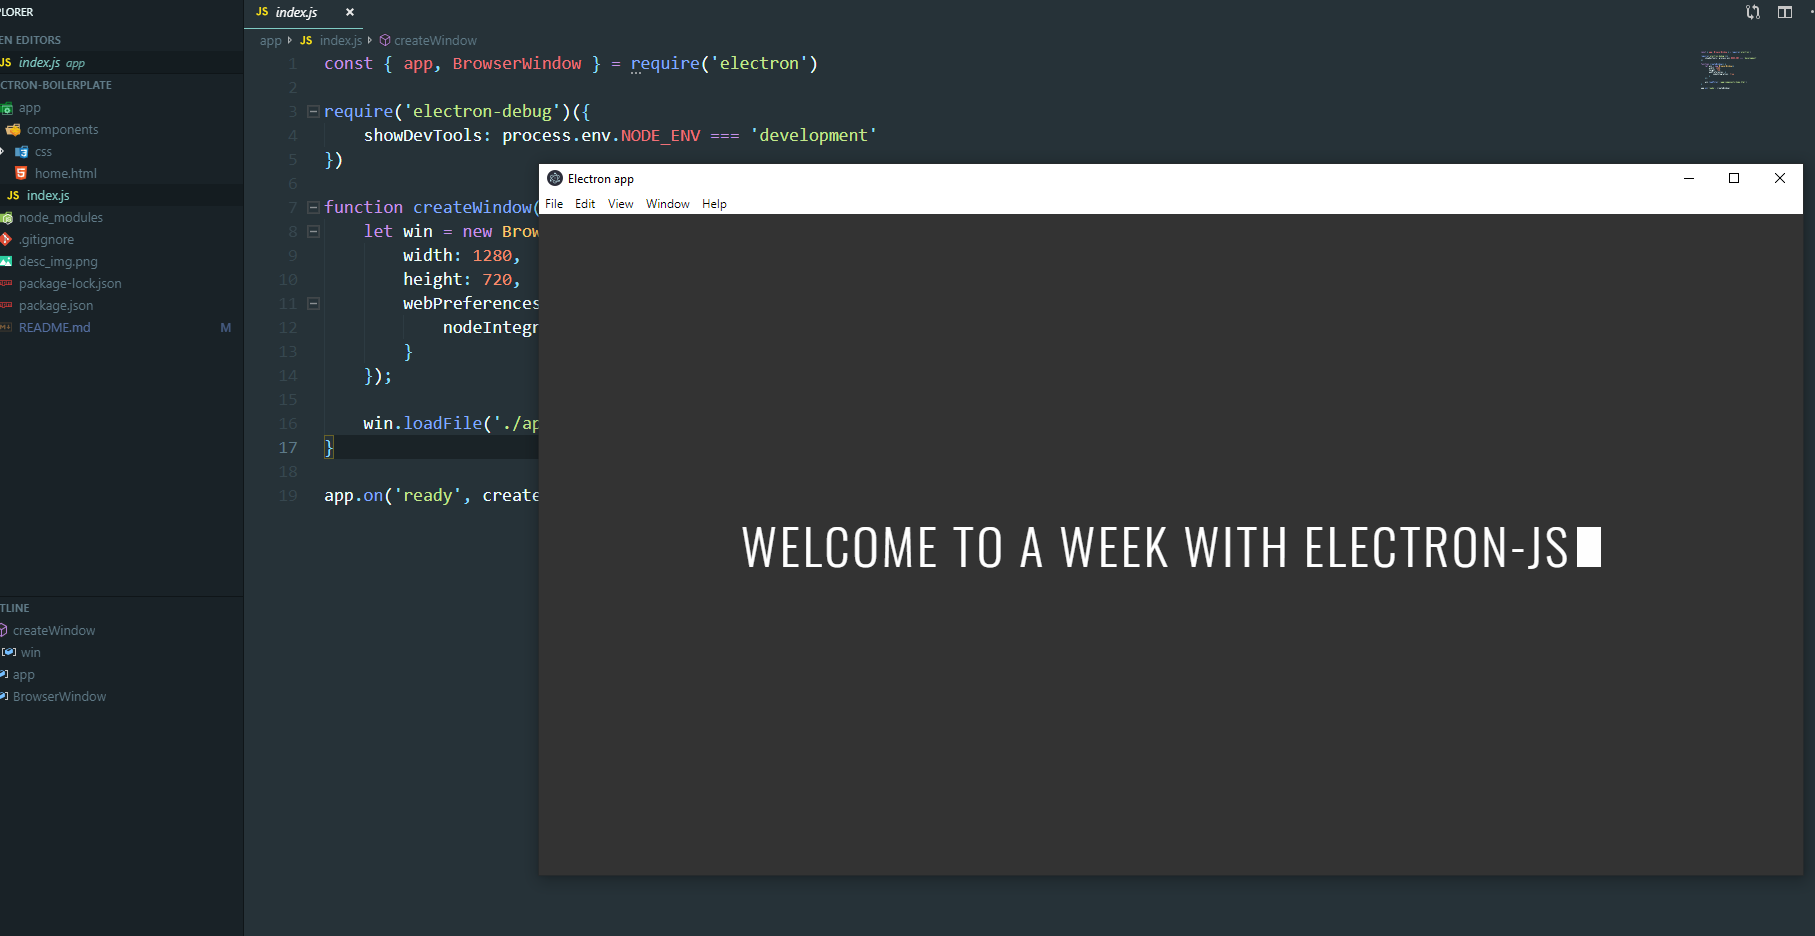
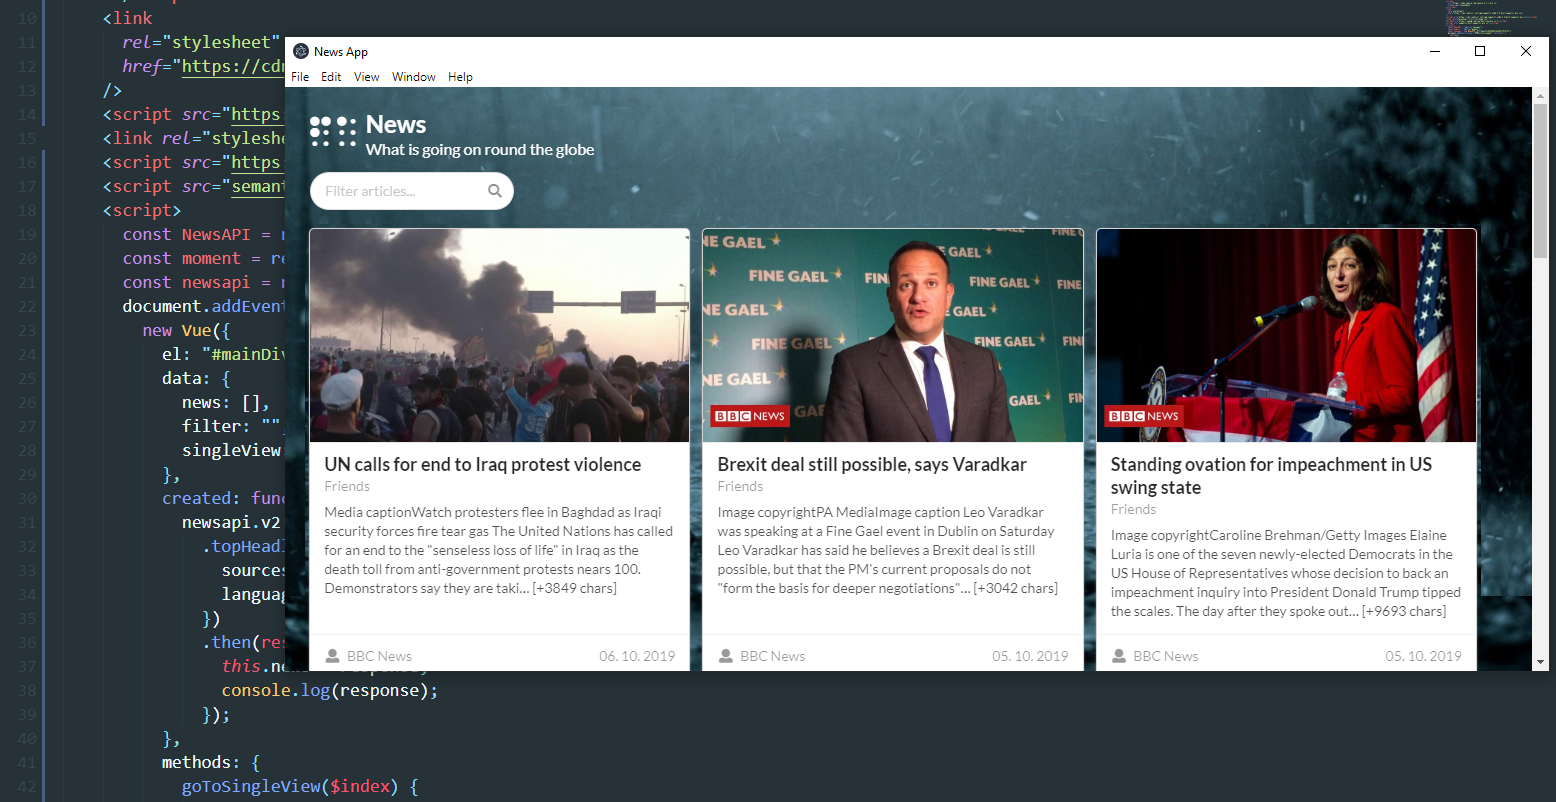
built news api app

diff --git a/app/components/home.html b/app/components/home.html
@@ -1,24 +1,116 @@
 <!DOCTYPE html>
 <html lang="en" dir="ltr">
-
-<head>
+  <head>
     <meta charset="utf-8" />
-    <title>Electron app</title>
-    <link rel="stylesheet" href="https://cdnjs.cloudflare.com/ajax/libs/normalize/7.0.0/normalize.min.css"
-        type="text/css" />
+    <title>News App</title>
+    <script
+      src="https://code.jquery.com/jquery-3.1.1.min.js"
+      crossorigin="anonymous"
+    ></script>
+    <link
+      rel="stylesheet"
+      href="https://cdn.jsdelivr.net/npm/semantic-ui@2.4.2/dist/semantic.min.css"
+    />
+    <script src="https://cdn.jsdelivr.net/npm/semantic-ui@2.4.2/dist/semantic.min.js"></script>
     <link rel="stylesheet" href="css/home.css" />
-    <script src="js/home.js"></script>
-    <link rel="stylesheet" href="styles.css" />
-</head>
+    <script src="https://unpkg.com/vue/dist/vue.min.js"></script>
+    <script src="semantic/dist/semantic.min.js"></script>
+    <script>
+      const NewsAPI = require("newsapi");
+      const moment = require("moment");
+      const newsapi = new NewsAPI("8717edacdc164636841ed4b6c551b178");
+      document.addEventListener("DOMContentLoaded", function() {
+        new Vue({
+          el: "#mainDiv",
+          data: {
+            news: [],
+            filter: "",
+            singleView: null
+          },
+          created: function() {
+            newsapi.v2
+              .topHeadlines({
+                sources: "bbc-news",
+                language: "en"
+              })
+              .then(response => {
+                this.news = response;
+                console.log(response);
+              });
+          },
+          methods: {
+            goToSingleView($index) {
+                this.singleView = $index;
+                console.log("osem");
+            },
+            back() {
+                this.singleView = null;
+            }
+          },
+          filters: {
+            dateF: date => moment(date).format("DD. MM. YYYY")
+          }
+        });
+      });
+    </script>
+  </head>
 
-<body>
-    <div class="container">
-        <h1>
-            <div>
-                Welcome to a week with Electron-JS
+  <body>
+    <div id="mainDiv" style="padding: 2vw">
+      <div v-if="singleView">{{ singleView }}</div>
+      <div v-else>
+        <div class="row">
+          <h2 class="white-force ui header">
+            <i class="braille icon"></i>
+            <div class="content">
+              News
+              <div class="sub header">What is going on round the globe</div>
             </div>
-        </h1>
+          </h2>
+          <div class="ui category search">
+            <div class="ui icon input">
+              <input
+                v-model="filter"
+                class="prompt"
+                type="text"
+                placeholder="Filter articles..."
+              />
+              <i class="search icon"></i>
+            </div>
+          </div>
+        </div>
+        <br />
+        <div class="ui link cards">
+          <div
+            style="width: 30vw"
+            class="card"
+            v-for="(article, $index) in news.articles.filter(x => x.title.toLowerCase().includes(filter))"
+            v-on:click="goToSingleView($index)"
+          >
+            <div class="image">
+              <img v-bind:src="article.urlToImage" />
+            </div>
+            <div class="content">
+              <div class="header">{{ article.title }}</div>
+              <div class="meta">
+                <a>Friends</a>
+              </div>
+              <div class="description">
+                {{ article.content }}
+              </div>
+            </div>
+            <div class="extra content">
+              <span class="right floated">
+                {{ article.publishedAt | dateF }}
+              </span>
+              <span>
+                <i class="user icon"></i>
+                {{ article.author }}
+              </span>
+            </div>
+          </div>
+        </div>
+      </div>
     </div>
-</body>
-
+  </body>
 </html>

diff --git a/app/components/css/home.css b/app/components/css/home.css
@@ -1,104 +1,8 @@
-@import url('https://fonts.googleapis.com/css?family=Oswald:300,400,500,600,700&display=swap');
 body {
-  margin: 0;
-  padding: 0;
+    background-image: url("back.jpg");
+    background-size: 100% 100%;
 }
-.container {
-  display: flex;
-  justify-content: center;
-  align-items: center;
-  font-family: 'Oswald', helvetica;
-  background-color: #333;
-  color: #fff;
-  height: 100vh;
-  font-size: 25px;
-}
-.container h1 {
-  position: relative;
-  letter-spacing: 3px;
-  font-weight: 300;
-  text-transform: uppercase;
-  letter-spacing: 3px;
-  padding-right: 30px;
-  overflow: hidden;
-}
-.container h1 div {
-  margin: 0 auto;
-  white-space: nowrap;
-  transform: translateX(calc(100% + 30px));
-  animation: leftSlide 1.1s cubic-bezier(0.68, -0.55, 0.265, 1.1) forwards;
-}
-.container h1:before {
-  content: "";
-  position: absolute;
-  right: 0;
-  height: 100%;
-  background: #333;
-  animation: hiddingSlide forwards;
-  z-index: 10;
-}
-.container h1::after {
-  content: "";
-  position: absolute;
-  background: white;
-  width: 75px;
-  margin: auto 0;
-  top: 5px;
-  bottom: 0;
-  height: 70%;
-  animation: rightSlide forwards;
-}
-.container h1::after, .container h1:before {
-  animation-duration: 1s;
-  animation-timing-function: cubic-bezier(0.645, 0.045, 0.355, 1);
-}
-@keyframes leftSlide {
-  0% {
-    transform: translateX(calc(100% + 30px));
-  }
-  100% {
-    transform: translateX(0%);
-  }
-}
-@keyframes rightSlide {
-  0% {
-    right: 100%;
-    width: 70px;
-  }
-  100% {
-    opacity: 1;
-    right: 0%;
-    width: 24px;
-  }
-}
-@keyframes hiddingSlide {
-  0% {
-    width: 100%;
-  }
-  100% {
-    width: 0%;
-  }
-}
-a {
-  position: fixed;
-  bottom: 20px;
-  right: 25px;
-  transition: 0.2s;
-}
-a:after {
-  content: "";
-  position: absolute;
-  margin: 0 auto;
-  left: 0;
-  right: 0;
-  width: 0%;
-  height: 2px;
-  background: #fff;
-  transition: 0.2s;
-}
-a:hover {
-  opacity: 0.8;
-}
-a:hover::after {
-  width: 100%;
-}
+
+.white-force * {
+    color: white !important;
+} 
